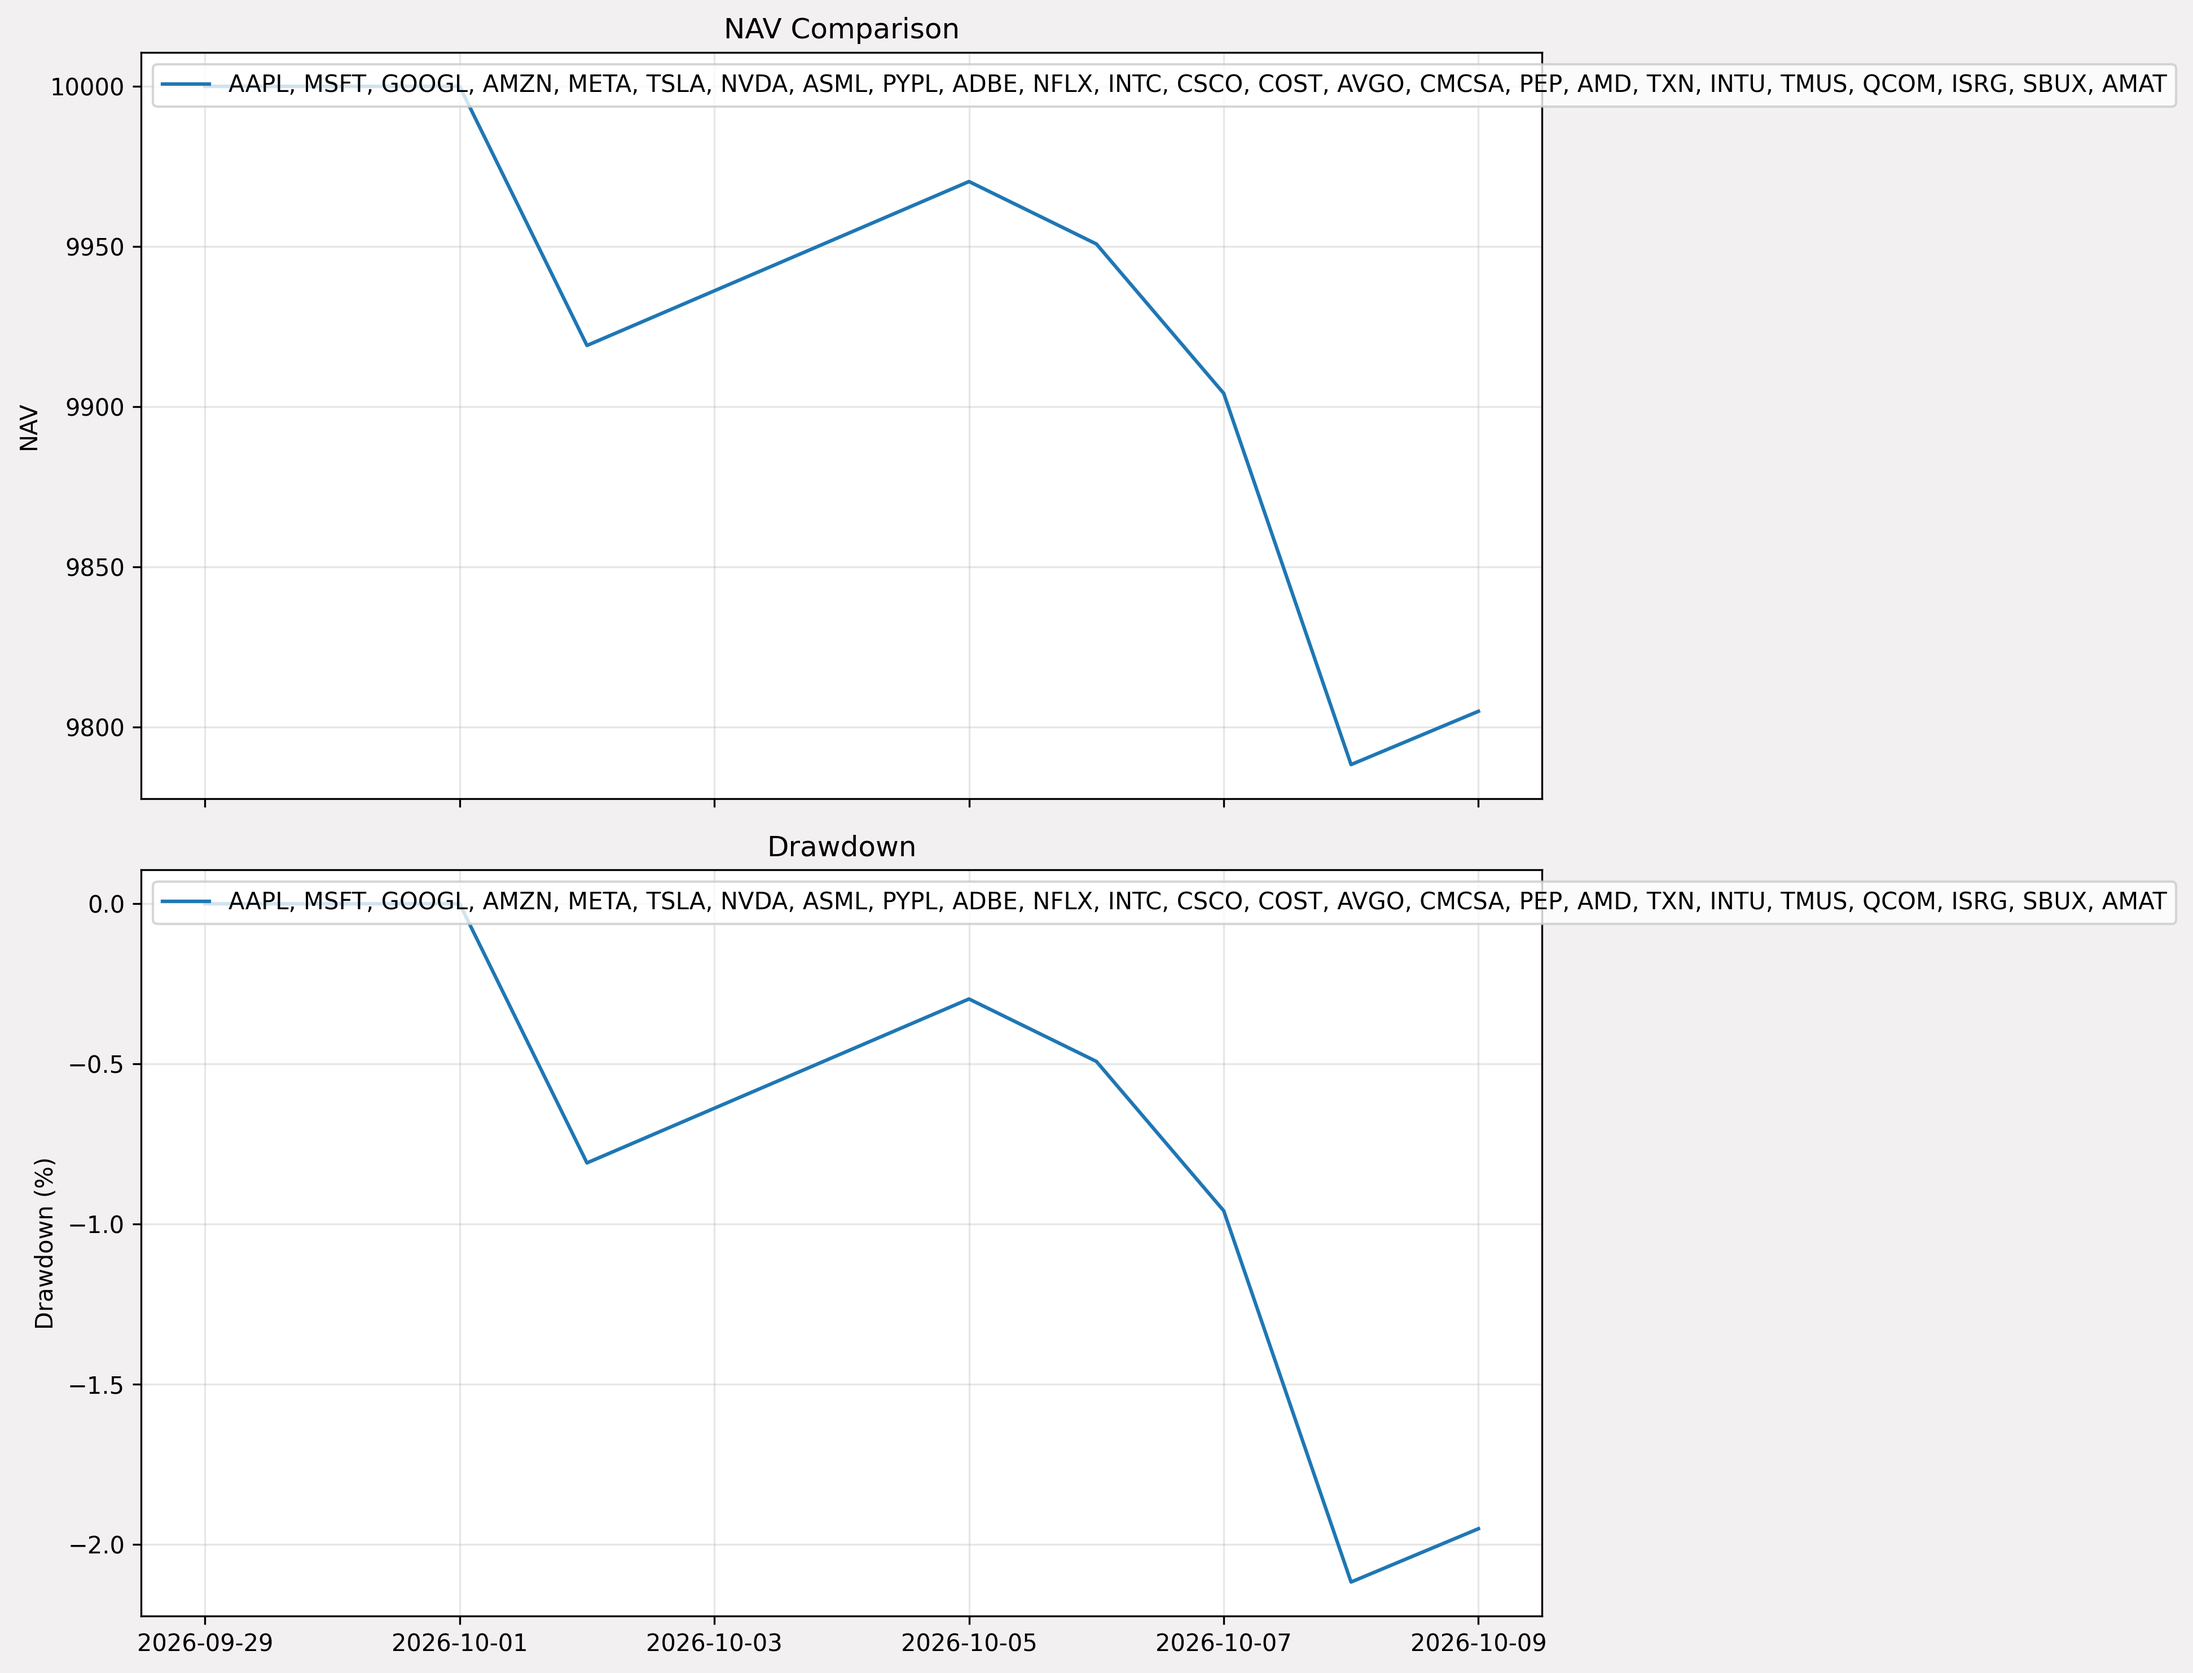
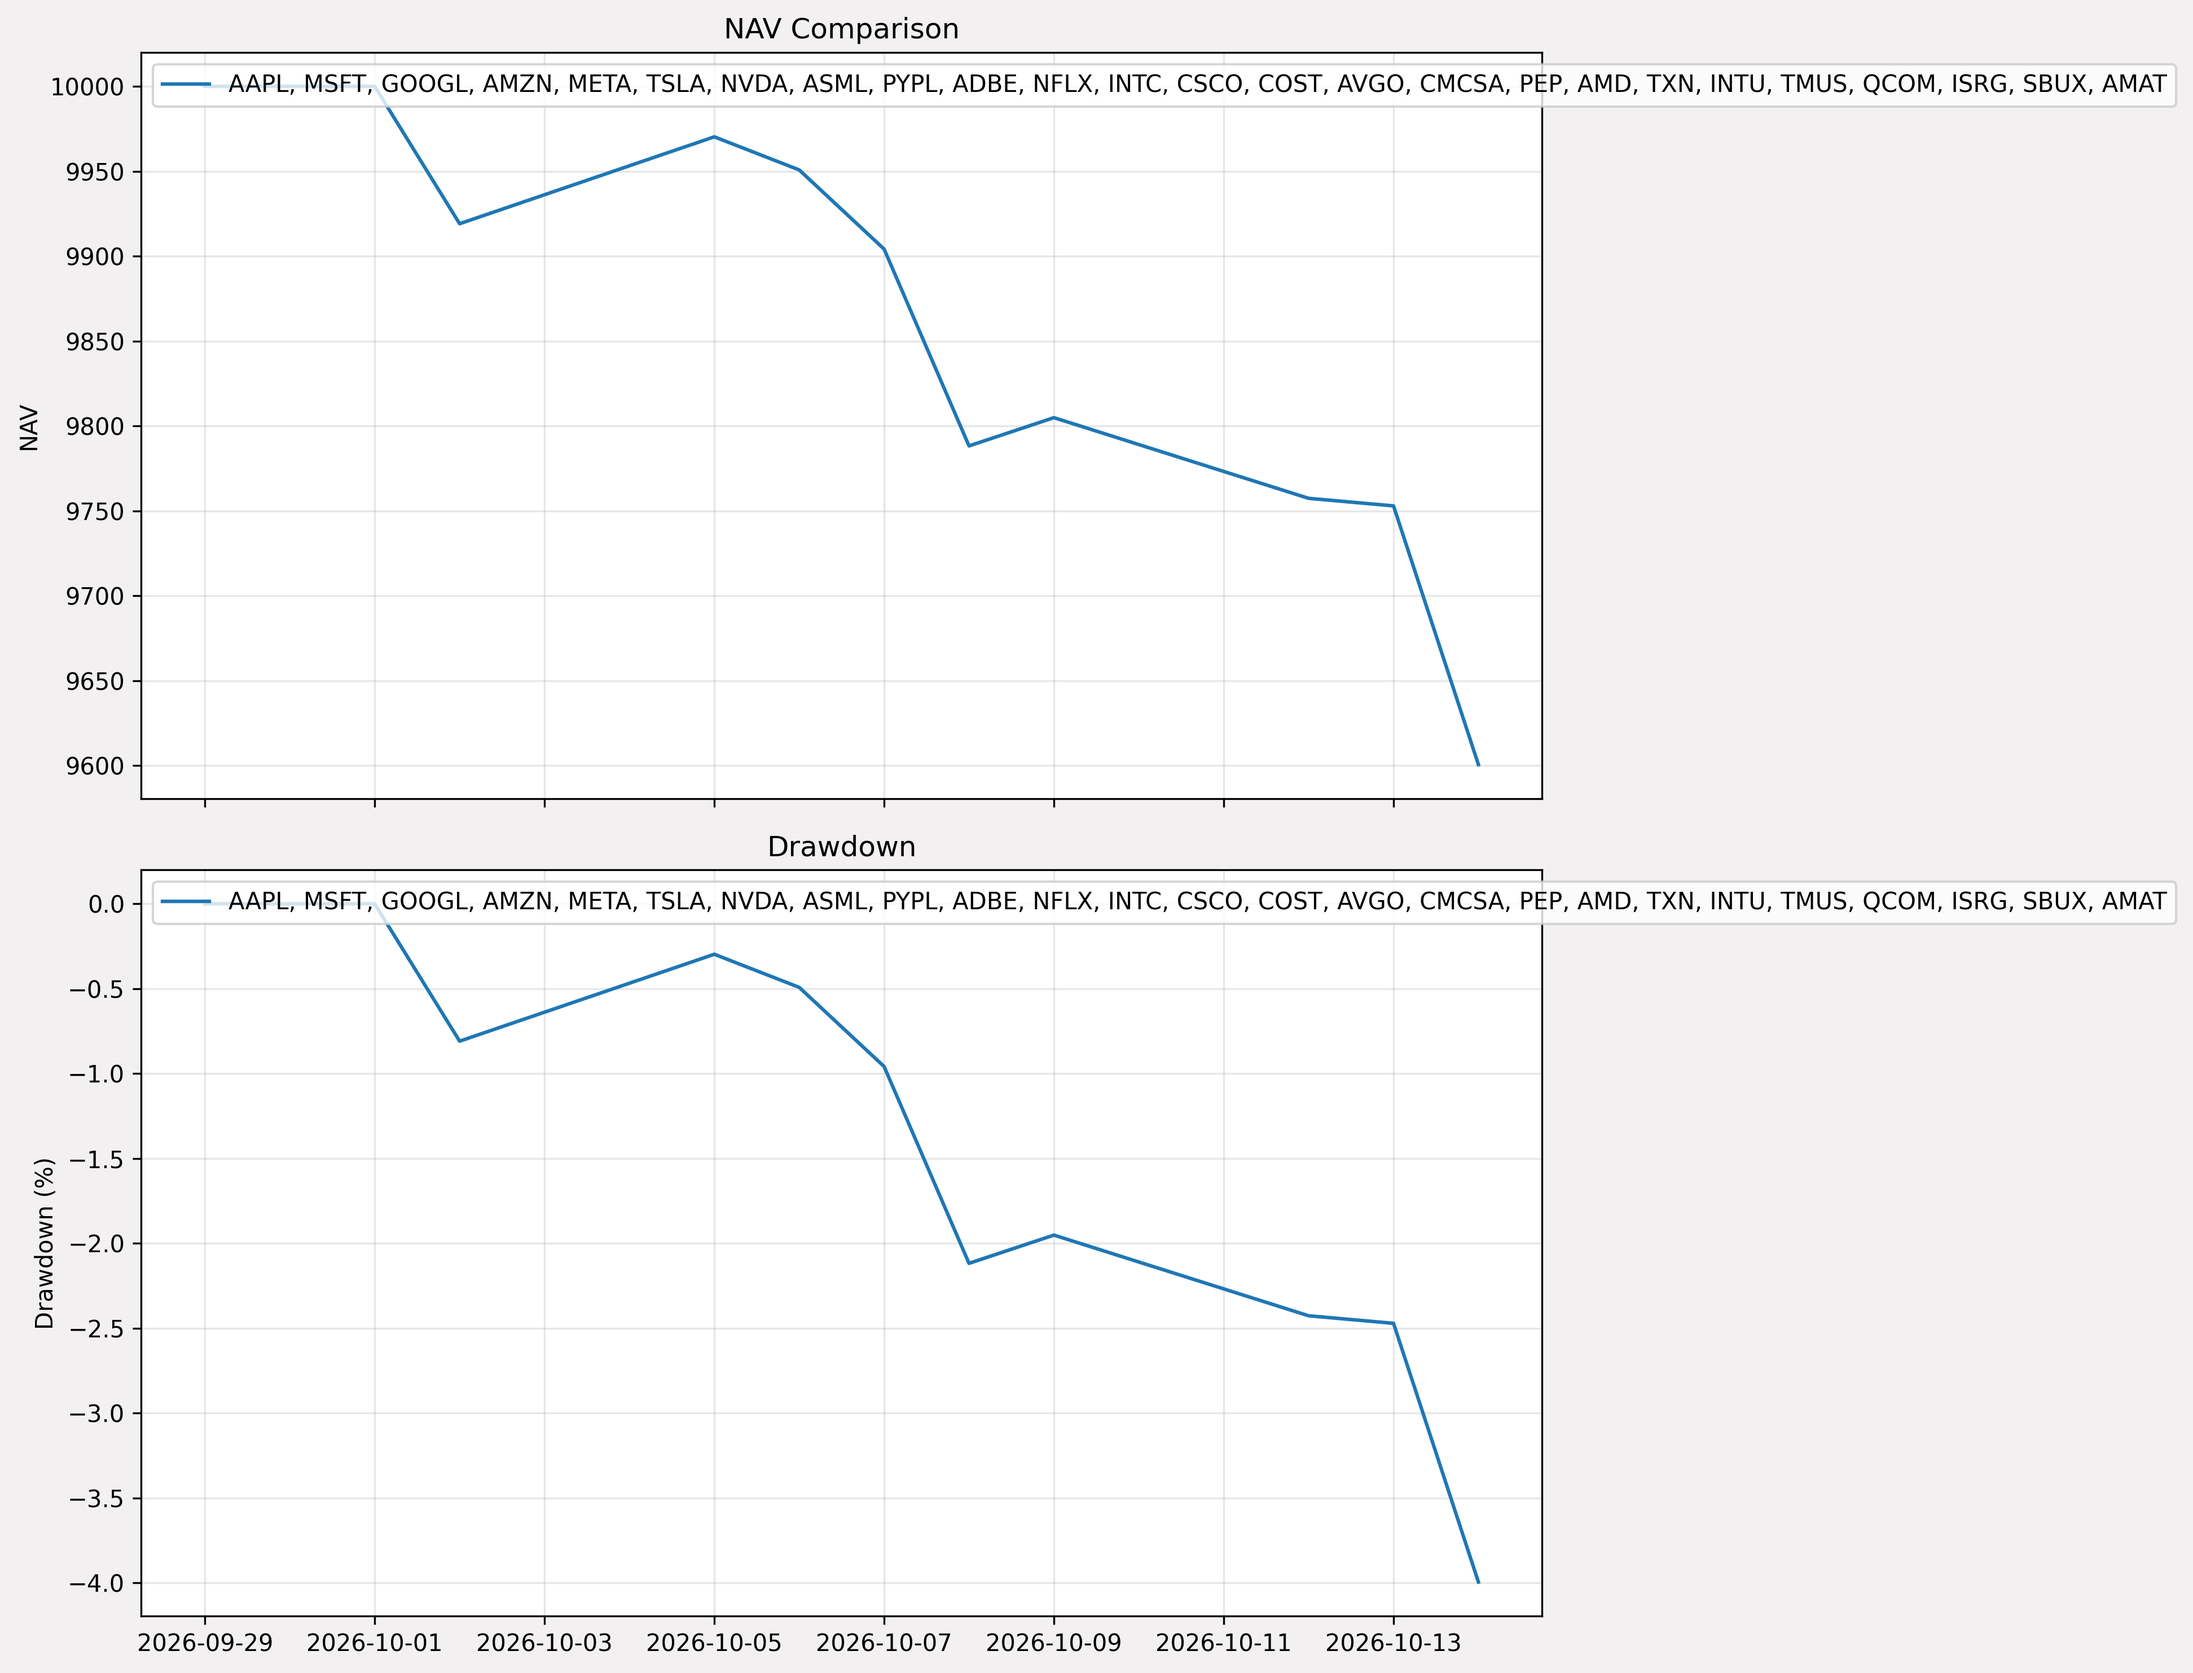
chore: auto-update paper trade reports

diff --git a/docs/paper_trade.md b/docs/paper_trade.md
@@ -15,15 +15,15 @@
 
 | Metric | Value |
 |--------|-------|
-| Total Return | -1.95% |
-| Sharpe Ratio | -10.46 (Period=5 少過 20 日) |
-| Max Drawdown | -1.95% |
-| Win Rate | N/A (no closed trades) |
-| Total Trades | 0 |
+| Total Return | -4.00% |
+| Sharpe Ratio | -14.07 (Period=7 少過 20 日) |
+| Max Drawdown | -4.00% |
+| Win Rate | 0.00% (n=2) |
+| Total Trades | 2 |
 | Open Positions | 15 |
 
-*Period: 2026-09-29 → 2026-10-09*
-*Last updated: 2026-10-11 14:46*
+*Period: 2026-09-29 → 2026-10-14*
+*Last updated: 2026-10-14 23:04*
 
 ---
 
